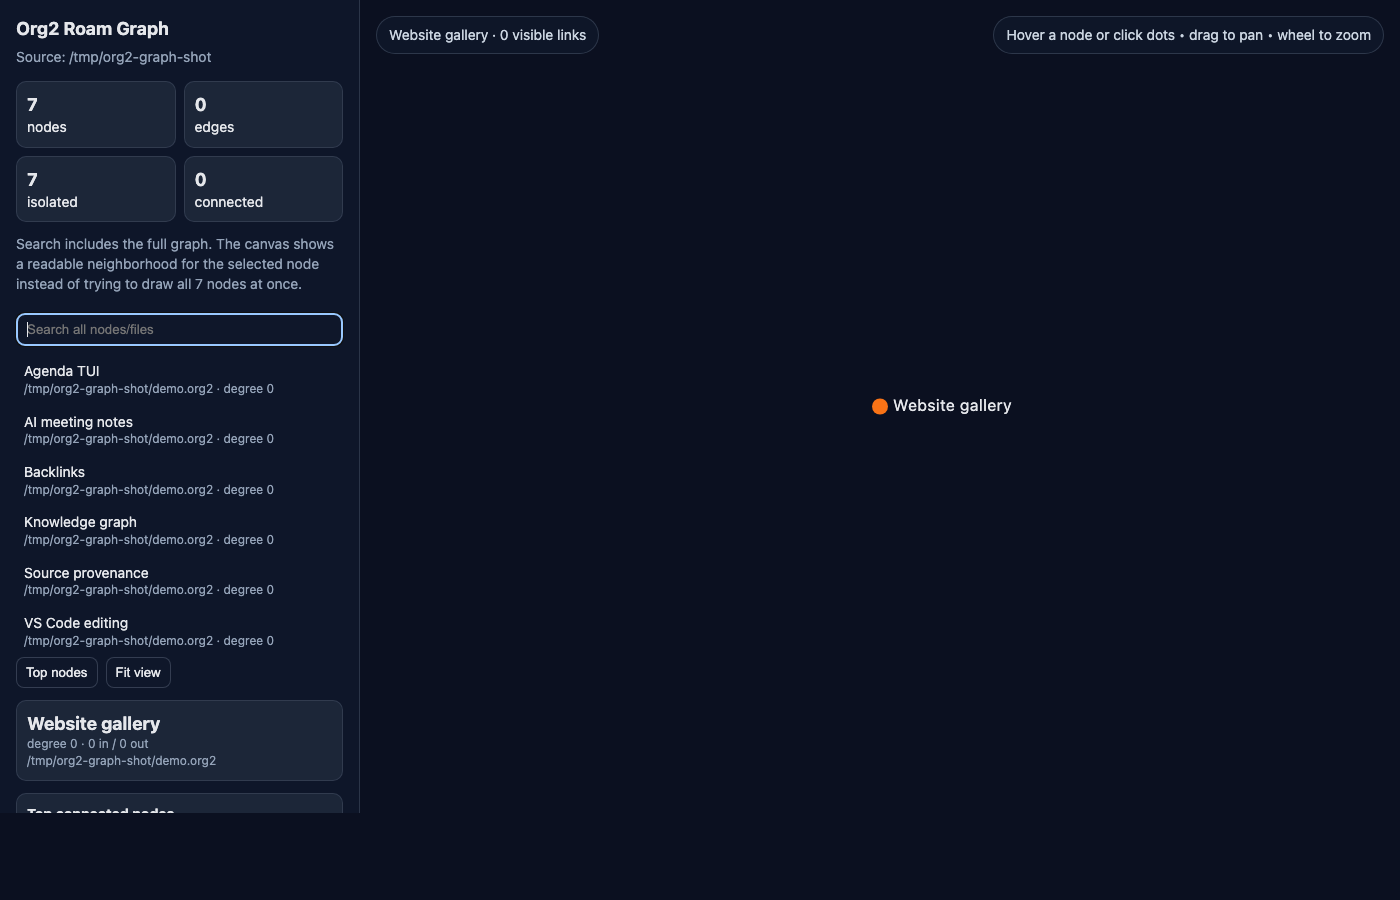
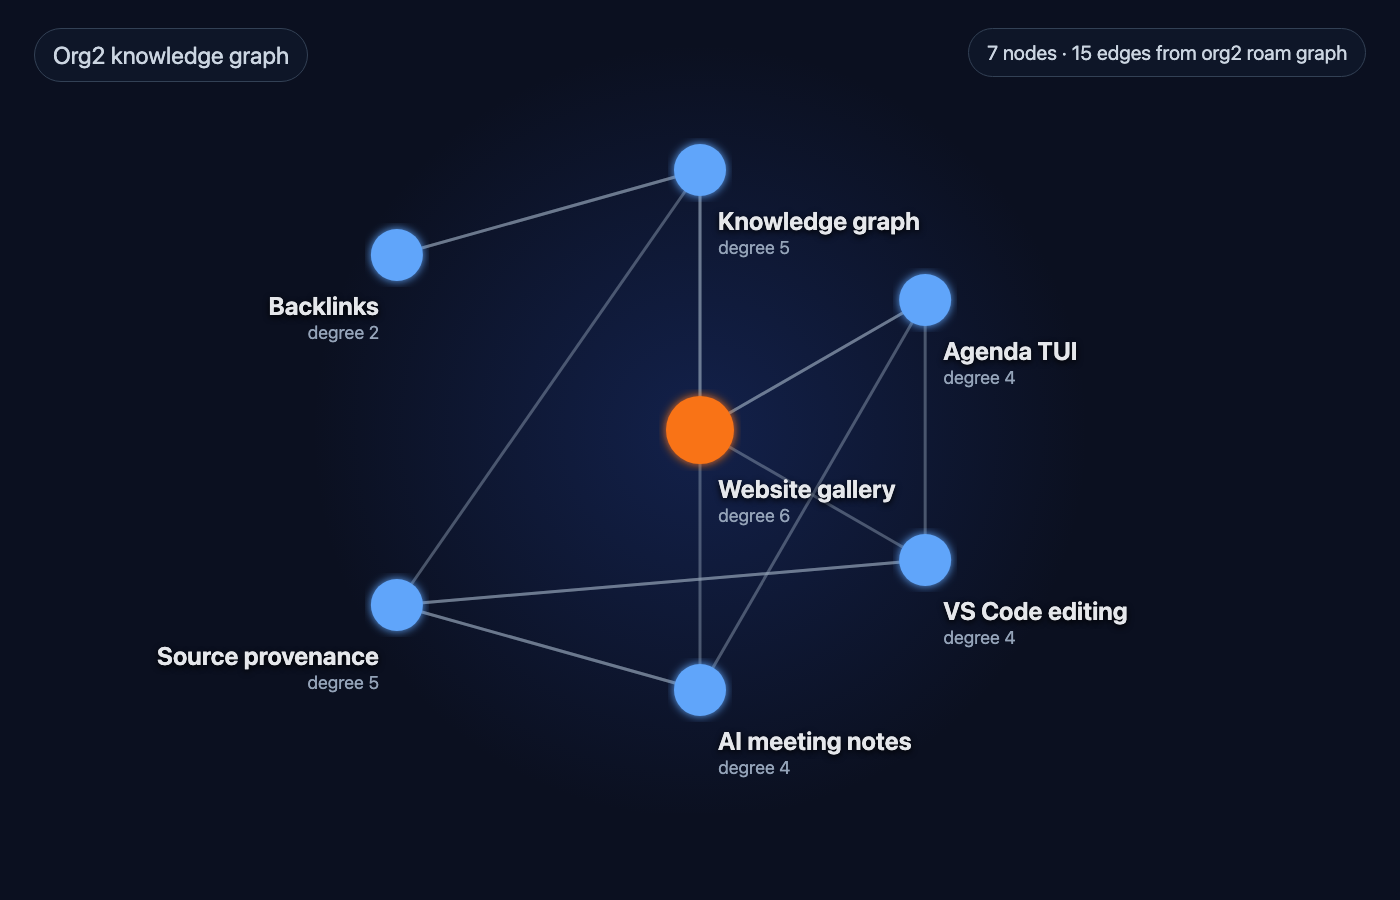
Make homepage graph screenshot visibly connected

diff --git a/src/cli.ts b/src/cli.ts
@@ -1691,7 +1691,7 @@ function renderRoamGraphHtml(graph: RoamGraphData, opts?: { title?: string; dir?
       const center = centerId ? nodes.find((node) => node.id === centerId) : null;
       const others = center ? nodes.filter((node) => node.id !== centerId) : nodes;
       if (center) { center.x = 0; center.y = 0; }
-      const rings = center ? [48, 170, 300, 440] : [80, 210, 350, 500];
+      const rings = center ? [170, 300, 440, 580] : [170, 320, 470, 620];
       others.forEach((node, index) => {
         const ring = rings[Math.min(rings.length - 1, Math.floor(index / 36))];
         const inRing = index % 36;
